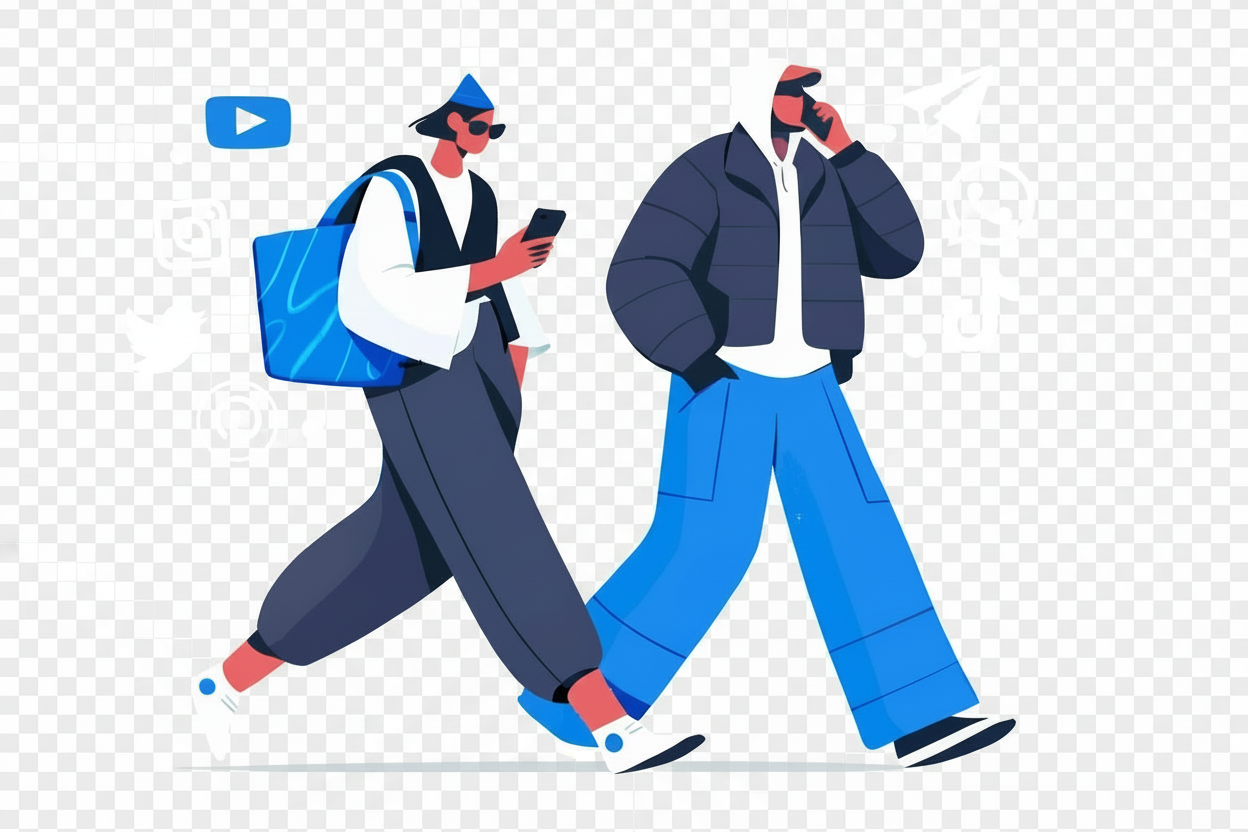
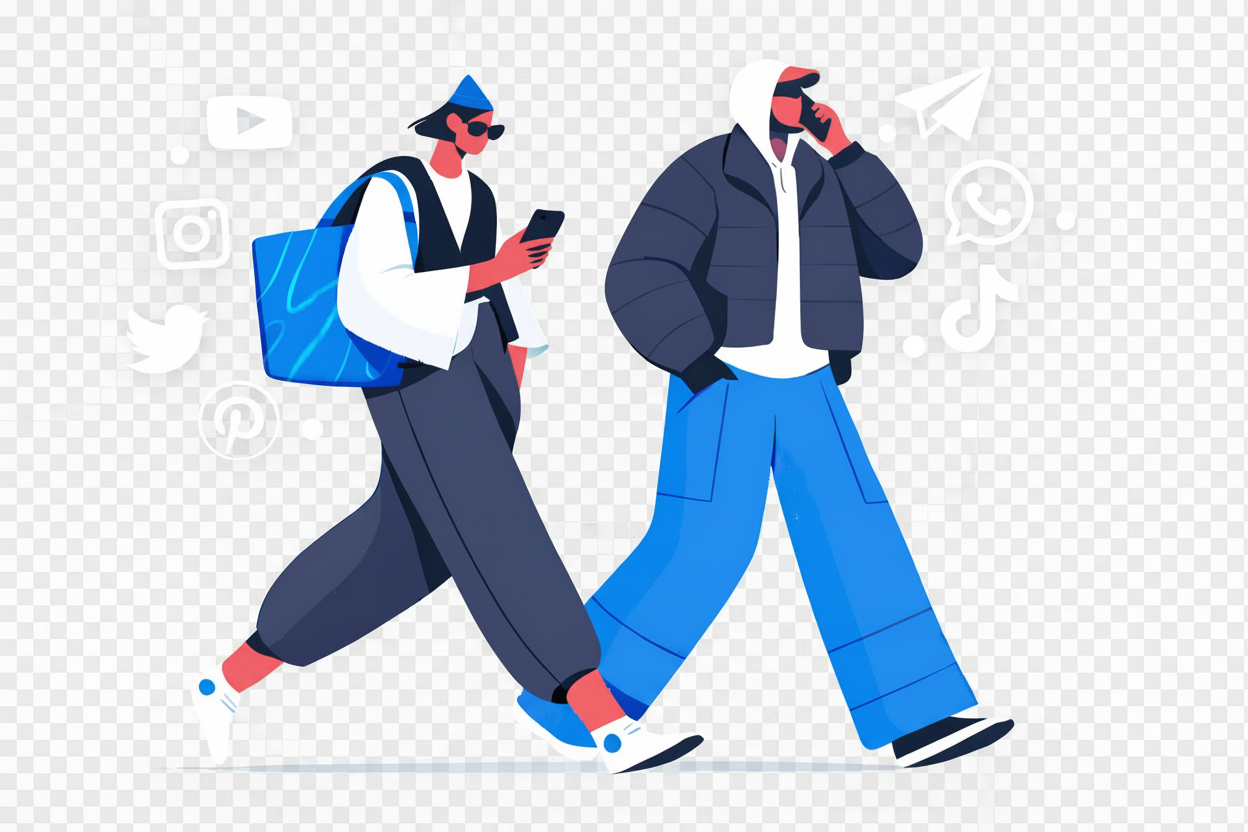
Changes

diff --git a/src/components/Hero.tsx b/src/components/Hero.tsx
@@ -68,7 +68,7 @@ const Hero = () => {
               <img 
                 src={heroIllustration} 
                 alt="People using mobile internet" 
-                className="w-full object-contain drop-shadow-2xl mix-blend-screen brightness-110"
+                className="w-full object-contain drop-shadow-2xl"
               
               />
             </div>
